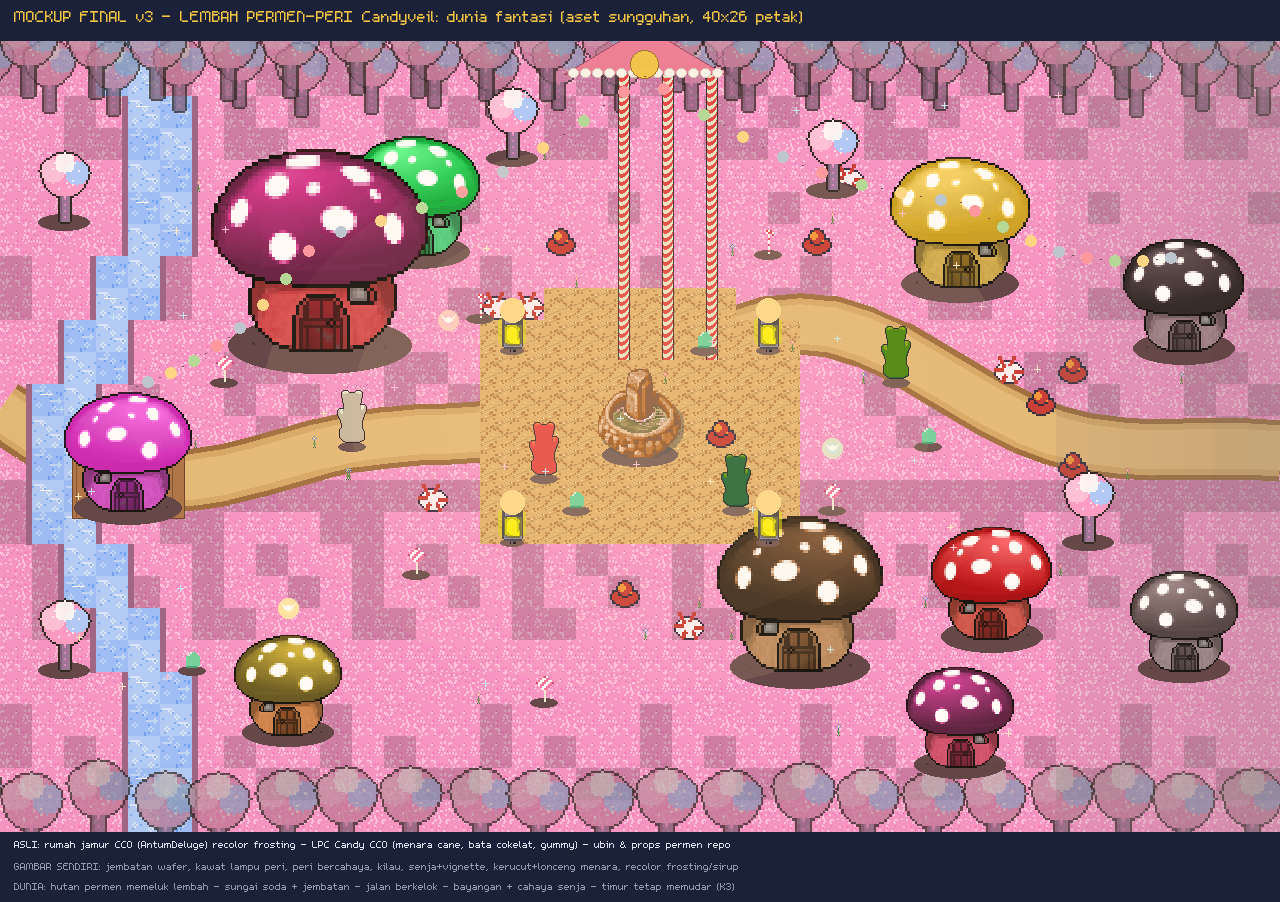
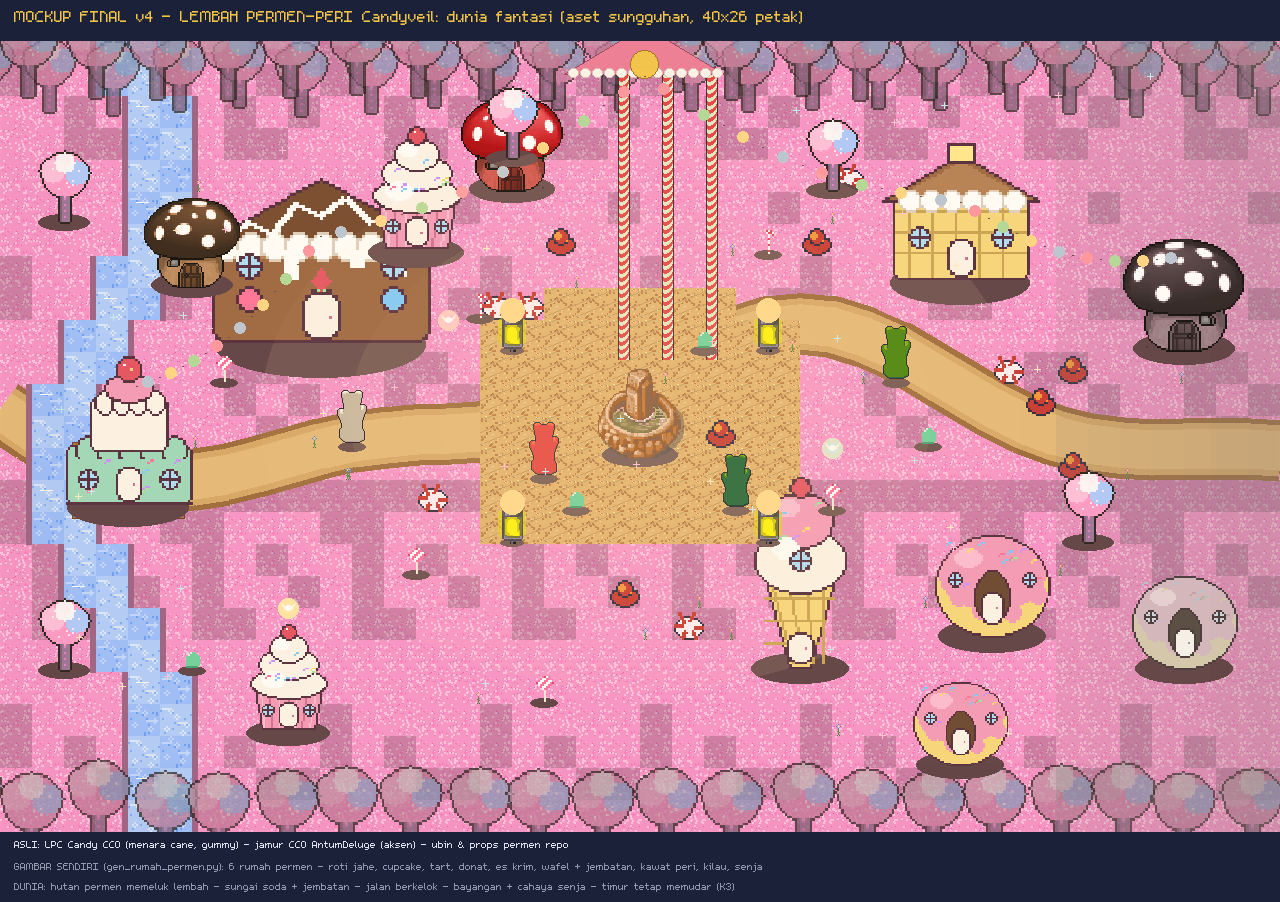
feat(aset): 6 rumah PERMEN digambar sendiri — Candyveil v4 (revisi-2 Direktur)
Direktur: "rumahnya jangan mushroom doang, kan temanya candy." Buruan aset
rumah-permen top-down berlisensi jelas = NIHIL, maka DIGAMBAR SENDIRI
(gen_rumah_permen.py, deklarasi penuh, gaya pixel 2x + outline gelap):

  roti_jahe   -> BALAI GULA (icing zigzag, kancing permen, pintu hati)
  wafel       -> PENGINAPAN (dinding kisi wafel, mentega di puncak)
  es_krim     -> KEDAI (cone wafel + dua scoop + ceri)
  kue_tart    -> TOKO SIRUP (dua tingkat mint, stroberi)
  kue_mangkuk -> rumah warga (wrapper lipit + frosting menara)
  donat       -> rumah warga (glasir taburan; LUBANGNYA = pintu)

Jamur CC0 tinggal AKSEN peri (ceri + cokelat + 1 pudar); pinggiran timur
kini donat yang glasirnya kehilangan warna. Menara candy cane, sungai soda,
jalan karamel, hutan lolipop, lampu peri & senja tetap (v3).

diff --git a/_tools/gen_rumah_permen.py b/_tools/gen_rumah_permen.py
@@ -1,0 +1,222 @@
+# -*- coding: utf-8 -*-
+"""RUMAH PERMEN Candyveil (#299 revisi-2 Direktur) — DIGAMBAR SENDIRI, deklarasi penuh.
+
+Direktur: "rumahnya jangan mushroom doang, kan temanya candy."
+Aset rumah permen top-down CC0 tidak ditemukan di buruan (OGA/itch) — maka
+enam tipe digambar prosedural, gaya pixel 2x (gambar kecil -> upscale NEAREST):
+
+  kue_mangkuk  — cupcake: wrapper lipit + frosting menara + ceri
+  roti_jahe    — gingerbread hall: badan cokelat + icing scallop + kancing
+  kue_tart     — kue dua tingkat, frosting menetes + stroberi
+  donat        — cincin glasir taburan; lubangnya = pintu
+  es_krim      — kios: cone wafel + dua scoop + ceri
+  wafel        — cottage dinding wafel + atap cokelat batang
+
+Keluaran -> reports/mockup/aset_permen/*.png (tahap mockup; saat eksekusi
+di-promosikan ke game/assets lewat jalur #240 yang sama).
+"""
+import os
+from PIL import Image, ImageDraw
+
+OUT = os.path.join(os.path.dirname(os.path.abspath(__file__)), "..",
+	"reports", "mockup", "aset_permen")
+
+# palet permen
+GARIS = (74, 34, 54, 255)
+PINK = (244, 150, 185, 255)
+PINK_T = (252, 186, 210, 255)
+PINK_G = (206, 104, 146, 255)
+KRIM = (252, 244, 232, 255)
+KRIM_G = (222, 206, 188, 255)
+COKL = (150, 96, 58, 255)
+COKL_T = (176, 122, 78, 255)
+COKL_G = (110, 66, 38, 255)
+MINT = (152, 216, 186, 255)
+MINT_G = (104, 170, 140, 255)
+KUNING = (246, 214, 120, 255)
+KUNING_G = (198, 160, 76, 255)
+MERAH = (226, 74, 92, 255)
+PUTIH = (255, 255, 252, 255)
+TABUR = [(255, 110, 150, 255), (120, 200, 255, 255), (255, 220, 100, 255),
+	(150, 230, 150, 255), (200, 140, 255, 255)]
+
+
+def kanvas(w, h):
+	im = Image.new("RGBA", (w, h), (0, 0, 0, 0))
+	return im, ImageDraw.Draw(im)
+
+
+def pintu(d, cx, y1, tinggi=13, lebar=10, warna=KRIM, gagang=PINK_G):
+	d.rounded_rectangle([cx - lebar // 2, y1 - tinggi, cx + lebar // 2, y1], 4,
+		fill=warna, outline=GARIS)
+	d.point((cx + lebar // 2 - 3, y1 - tinggi // 2), fill=gagang)
+
+
+def jendela(d, cx, cy, r=4, kaca=(170, 220, 250, 255)):
+	d.ellipse([cx - r, cy - r, cx + r, cy + r], fill=kaca, outline=GARIS)
+	d.line([(cx - r, cy), (cx + r, cy)], fill=GARIS)
+	d.line([(cx, cy - r), (cx, cy + r)], fill=GARIS)
+
+
+def taburan(d, box, n, rng_seed=7):
+	import random
+	rr = random.Random(rng_seed)
+	for _ in range(n):
+		x = rr.randrange(box[0], box[2])
+		y = rr.randrange(box[1], box[3])
+		w = rr.choice(TABUR)
+		d.line([(x, y), (x + 2, y - 1)], fill=w, width=1)
+
+
+def kue_mangkuk():
+	im, d = kanvas(52, 60)
+	# wrapper lipit
+	d.polygon([(8, 34), (44, 34), (40, 56), (12, 56)], fill=PINK, outline=GARIS)
+	for i, x in enumerate(range(11, 42, 5)):
+		x2 = 12 + (x - 10) * 28 // 36
+		d.line([(x, 35), (x2 + 1, 55)], fill=PINK_G if i % 2 else PINK_T)
+	d.line([(8, 34), (44, 34)], fill=GARIS)
+	# frosting tiga gulung
+	d.ellipse([6, 24, 46, 40], fill=KRIM, outline=GARIS)
+	d.ellipse([10, 14, 42, 30], fill=KRIM, outline=GARIS)
+	d.ellipse([16, 6, 36, 21], fill=KRIM, outline=GARIS)
+	d.ellipse([12, 26, 24, 34], fill=PUTIH)
+	d.ellipse([18, 9, 26, 14], fill=PUTIH)
+	taburan(d, (12, 10, 40, 34), 10, 3)
+	# ceri
+	d.ellipse([22, 1, 30, 9], fill=MERAH, outline=GARIS)
+	d.point((25, 3), fill=PUTIH)
+	pintu(d, 26, 55)
+	jendela(d, 15, 46, 3)
+	jendela(d, 37, 46, 3)
+	return im
+
+
+def roti_jahe():
+	im, d = kanvas(84, 62)
+	# badan
+	d.rounded_rectangle([6, 24, 78, 58], 4, fill=COKL, outline=GARIS)
+	d.rectangle([6, 24, 78, 30], fill=COKL_T)
+	# atap
+	d.polygon([(2, 26), (42, 4), (82, 26)], fill=COKL_G, outline=GARIS)
+	# icing scallop tepi atap + tetesan dinding
+	for x in range(6, 76, 8):
+		d.ellipse([x, 22, x + 9, 31], fill=PUTIH, outline=KRIM_G)
+	for x, ln in ((14, 6), (30, 9), (52, 5), (66, 8)):
+		d.rectangle([x, 28, x + 4, 28 + ln], fill=PUTIH)
+	# jalur icing zigzag di atap
+	d.line([(10, 24), (18, 18), (26, 22), (34, 12), (42, 16), (50, 10),
+		(58, 18), (66, 16), (74, 24)], fill=PUTIH, width=2)
+	# kancing permen
+	for x, w in ((18, TABUR[0]), (42, TABUR[3]), (66, TABUR[1])):
+		d.ellipse([x - 4, 40, x + 4, 48], fill=w, outline=GARIS)
+	pintu(d, 42, 57, 15, 12, KRIM)
+	d.polygon([(42, 34), (39, 38), (42, 41), (45, 38)], fill=MERAH)   # hati
+	jendela(d, 18, 33, 4)
+	jendela(d, 66, 33, 4)
+	return im
+
+
+def kue_tart():
+	im, d = kanvas(60, 66)
+	# tingkat bawah
+	d.rounded_rectangle([4, 38, 56, 62], 3, fill=MINT, outline=GARIS)
+	for x in range(8, 52, 9):
+		d.ellipse([x, 34, x + 10, 46], fill=MINT, outline=GARIS)
+	d.rectangle([6, 44, 54, 60], fill=MINT)
+	d.line([(4, 62), (56, 62)], fill=GARIS)
+	# tingkat atas
+	d.rounded_rectangle([14, 18, 46, 40], 3, fill=KRIM, outline=GARIS)
+	for x in range(16, 44, 7):
+		d.ellipse([x, 15, x + 8, 25], fill=KRIM, outline=GARIS)
+	# frosting puncak + stroberi
+	d.ellipse([20, 8, 40, 20], fill=PINK, outline=GARIS)
+	d.ellipse([25, 1, 35, 11], fill=MERAH, outline=GARIS)
+	d.point((28, 4), fill=PUTIH)
+	d.point((31, 6), fill=KUNING)
+	taburan(d, (8, 40, 52, 58), 8, 11)
+	pintu(d, 30, 61, 14, 11)
+	jendela(d, 13, 52, 4)
+	jendela(d, 47, 52, 4)
+	return im
+
+
+def donat():
+	im, d = kanvas(58, 54)
+	# cincin
+	d.ellipse([3, 6, 55, 52], fill=KUNING, outline=GARIS)
+	# glasir
+	d.ellipse([5, 7, 53, 40], fill=PINK, outline=None)
+	d.arc([3, 6, 55, 52], 180, 360, fill=GARIS)
+	for x, y in ((10, 34), (20, 40), (34, 41), (46, 33)):
+		d.ellipse([x, y - 4, x + 8, y + 4], fill=PINK)
+	d.ellipse([12, 12, 24, 20], fill=PINK_T)
+	taburan(d, (8, 10, 50, 34), 12, 5)
+	# lubang = pintu
+	d.ellipse([21, 22, 37, 46], fill=(96, 62, 40, 255), outline=GARIS)
+	pintu(d, 29, 46, 14, 11, KRIM)
+	jendela(d, 12, 26, 3)
+	jendela(d, 46, 26, 3)
+	return im
+
+
+def es_krim():
+	im, d = kanvas(46, 78)
+	# cone terbalik jadi menara
+	d.polygon([(9, 40), (37, 40), (27, 76), (19, 76)], fill=KUNING, outline=GARIS)
+	for i in range(4):
+		d.line([(11 + i * 7, 40), (20 + i * 4, 74)], fill=KUNING_G)
+	for i in range(3):
+		d.line([(9, 48 + i * 9), (36 - i * 3, 48 + i * 9)], fill=KUNING_G)
+	# dua scoop
+	d.ellipse([5, 20, 41, 46], fill=KRIM, outline=GARIS)
+	d.ellipse([10, 6, 36, 28], fill=PINK, outline=GARIS)
+	d.ellipse([12, 24, 22, 32], fill=PUTIH)
+	d.ellipse([14, 9, 22, 15], fill=PINK_T)
+	taburan(d, (10, 10, 34, 26), 7, 9)
+	d.ellipse([19, 0, 27, 8], fill=MERAH, outline=GARIS)
+	pintu(d, 23, 74, 12, 10)
+	jendela(d, 23, 33, 4)
+	return im
+
+
+def wafel():
+	im, d = kanvas(64, 58)
+	# dinding wafel
+	d.rounded_rectangle([6, 22, 58, 54], 3, fill=KUNING, outline=GARIS)
+	for x in range(12, 56, 9):
+		d.line([(x, 23), (x, 53)], fill=KUNING_G)
+	for y in range(28, 52, 8):
+		d.line([(7, y), (57, y)], fill=KUNING_G)
+	# atap batang cokelat + icing
+	d.polygon([(2, 24), (32, 6), (62, 24)], fill=COKL, outline=GARIS)
+	d.polygon([(8, 22), (32, 9), (56, 22)], fill=COKL_T)
+	for x in range(8, 56, 8):
+		d.ellipse([x, 20, x + 9, 28], fill=PUTIH, outline=KRIM_G)
+	# mentega di puncak
+	d.rectangle([27, 2, 37, 9], fill=(255, 232, 140, 255), outline=GARIS)
+	pintu(d, 32, 53, 14, 11, KRIM)
+	jendela(d, 16, 38, 4)
+	jendela(d, 48, 38, 4)
+	return im
+
+
+def main():
+	os.makedirs(OUT, exist_ok=True)
+	daftar = [("kue_mangkuk", kue_mangkuk()), ("roti_jahe", roti_jahe()),
+		("kue_tart", kue_tart()), ("donat", donat()), ("es_krim", es_krim()),
+		("wafel", wafel())]
+	lebar = sum(im.width * 2 + 8 for _, im in daftar) + 8
+	kontak = Image.new("RGBA", (lebar, 180), (24, 20, 34, 255))
+	x = 8
+	for nama, im in daftar:
+		im2 = im.resize((im.width * 2, im.height * 2), Image.NEAREST)
+		im2.save(os.path.join(OUT, nama + ".png"))
+		kontak.alpha_composite(im2, (x, 170 - im2.height))
+		x += im2.width + 8
+	kontak.save(os.path.join(OUT, "_kontak.png"))
+	print("-> reports/mockup/aset_permen/ (6 rumah + _kontak.png)")
+
+
+if __name__ == "__main__":
+	main()

diff --git a/_tools/mockup_candyveil_final.py b/_tools/mockup_candyveil_final.py
@@ -22,6 +22,7 @@ G = os.path.join(ROOT, "game", "assets", "game")
 CANDY = os.path.join(ROOT, "assets_raw", "oga", "candy", "lpc_candy")
 JAMUR = os.path.join(ROOT, "assets_raw", "oga", "candy", "mushroom_houses",
 	"PNG", "64x64", "mushroom_houses-RGB.png")
+PERMEN = os.path.join(ROOT, "reports", "mockup", "aset_permen")
 FONT = os.path.join(ROOT, "game", "assets", "game", "fonts", "m5x7.ttf")
 T = 32
 W, H = 40 * T, 26 * T
@@ -171,20 +172,24 @@ def main():
 		rm = sheet.crop((kol * 64, bar * 64, kol * 64 + 64, bar * 64 + 64))
 		return geser_rona(rm, rona, sat, 1.05)
 
-	tempel(im, jamur(1, 0, 0.45), (13 * T, 8 * T), 2.0)     # mint
-	tempel(im, jamur(2, 0, 0.12), (30 * T, 9 * T), 2.2)     # lemon
-	tempel(im, jamur(0, 1, 0.80), (4 * T, 16 * T), 2.0)     # blueberry
-	tempel(im, jamur(1, 1, 0.99), (31 * T, 20 * T), 1.9)    # ceri
-	tempel(im, jamur(2, 1, 0.06), (9 * T, 23 * T), 1.7)     # jeruk
-	tempel(im, jamur(0, 2, 0.93), (30 * T, 24 * T), 1.7)    # gulali
-	# pinggiran timur: frosting yang kehilangan warna
-	tempel(im, pudar(jamur(1, 2, 0.9, 0.55)), (37 * T, 11 * T), 1.9)
-	tempel(im, pudar(jamur(2, 2, 0.9, 0.5), 0.72), (37 * T, 21 * T), 1.7)
+	# ── RUMAH PERMEN (gen_rumah_permen.py — DIGAMBAR SENDIRI, revisi-2
+	# Direktur: "jangan mushroom doang, kan temanya candy") + jamur = aksen ──
+	def permen(nama):
+		return buka(os.path.join(PERMEN, nama + ".png"), G)
 
-	# ── BALAI GULA & KEDAI COKELAT = keluarga jamur juga (revisi mata:
-	# konstruksi bata bolong dibuang; kota peri = SEMUA cendawan) ──
-	tempel(im, jamur(0, 0, 0.97, 1.3), (10 * T, 11 * T), 3.4)   # BALAI — jamur stroberi raksasa
-	tempel(im, jamur(1, 3, 0.07, 0.85), (25 * T, 21 * T), 2.6)  # KEDAI — jamur cokelat susu
+	tempel(im, permen("roti_jahe"), (10 * T, 11 * T), 1.5)      # BALAI GULA — roti jahe besar
+	tempel(im, permen("wafel"), (30 * T, 9 * T), 1.3)           # PENGINAPAN WAFEL
+	tempel(im, permen("es_krim"), (25 * T, 21 * T), 1.25)       # KEDAI ES KRIM
+	tempel(im, permen("kue_tart"), (4 * T, 16 * T), 1.2)        # TOKO SIRUP — tart mint
+	tempel(im, permen("kue_mangkuk"), (13 * T, 8 * T), 1.1)     # rumah warga cupcake
+	tempel(im, permen("donat"), (31 * T, 20 * T), 1.1)          # rumah warga donat
+	tempel(im, permen("kue_mangkuk"), (9 * T, 23 * T), 0.95)    # cupcake kecil
+	tempel(im, permen("donat"), (30 * T, 24 * T), 0.9)          # donat kecil
+	tempel(im, jamur(1, 1, 0.99), (16 * T, 6 * T), 1.6)         # jamur ceri — aksen peri
+	tempel(im, jamur(1, 3, 0.07, 0.85), (6 * T, 9 * T), 1.5)    # jamur cokelat — aksen
+	# pinggiran timur: rumah yang kehilangan warna
+	tempel(im, pudar(jamur(1, 2, 0.9, 0.55)), (37 * T, 11 * T), 1.9)
+	tempel(im, pudar(permen("donat"), 0.72), (37 * T, 21 * T), 1.0)
 	cok = buka("milkchocolate.png", CANDY)
 
 	# ── MENARA LONCENG PERMEN (candy cane LPC Candy) ──
@@ -275,14 +280,14 @@ def main():
 	# ── judul + keterangan ──
 	d = ImageDraw.Draw(im, "RGBA")
 	d.rectangle([0, 0, W, 40], fill=(26, 33, 56, 235))
-	d.text((14, 6), "MOCKUP FINAL v3 - LEMBAH PERMEN-PERI Candyveil: dunia fantasi (aset sungguhan, 40x26 petak)",
+	d.text((14, 6), "MOCKUP FINAL v4 - LEMBAH PERMEN-PERI Candyveil: dunia fantasi (aset sungguhan, 40x26 petak)",
 		font=f(24), fill=(244, 197, 66))
 	d.rectangle([0, H, W, H + 70], fill=(26, 33, 56, 255))
 	d.text((14, H + 6),
-		"ASLI: rumah jamur CC0 (AntumDeluge) recolor frosting - LPC Candy CC0 (menara cane, bata cokelat, gummy) - ubin & props permen repo",
+		"ASLI: LPC Candy CC0 (menara cane, gummy) - jamur CC0 AntumDeluge (aksen) - ubin & props permen repo",
 		font=f(15), fill=(228, 232, 245))
 	d.text((14, H + 28),
-		"GAMBAR SENDIRI: jembatan wafer, kawat lampu peri, peri bercahaya, kilau, senja+vignette, kerucut+lonceng menara, recolor frosting/sirup",
+		"GAMBAR SENDIRI (gen_rumah_permen.py): 6 rumah permen - roti jahe, cupcake, tart, donat, es krim, wafel + jembatan, kawat peri, kilau, senja",
 		font=f(15), fill=(150, 156, 178))
 	d.text((14, H + 48),
 		"DUNIA: hutan permen memeluk lembah - sungai soda + jembatan - jalan berkelok - bayangan + cahaya senja - timur tetap memudar (K3)",
